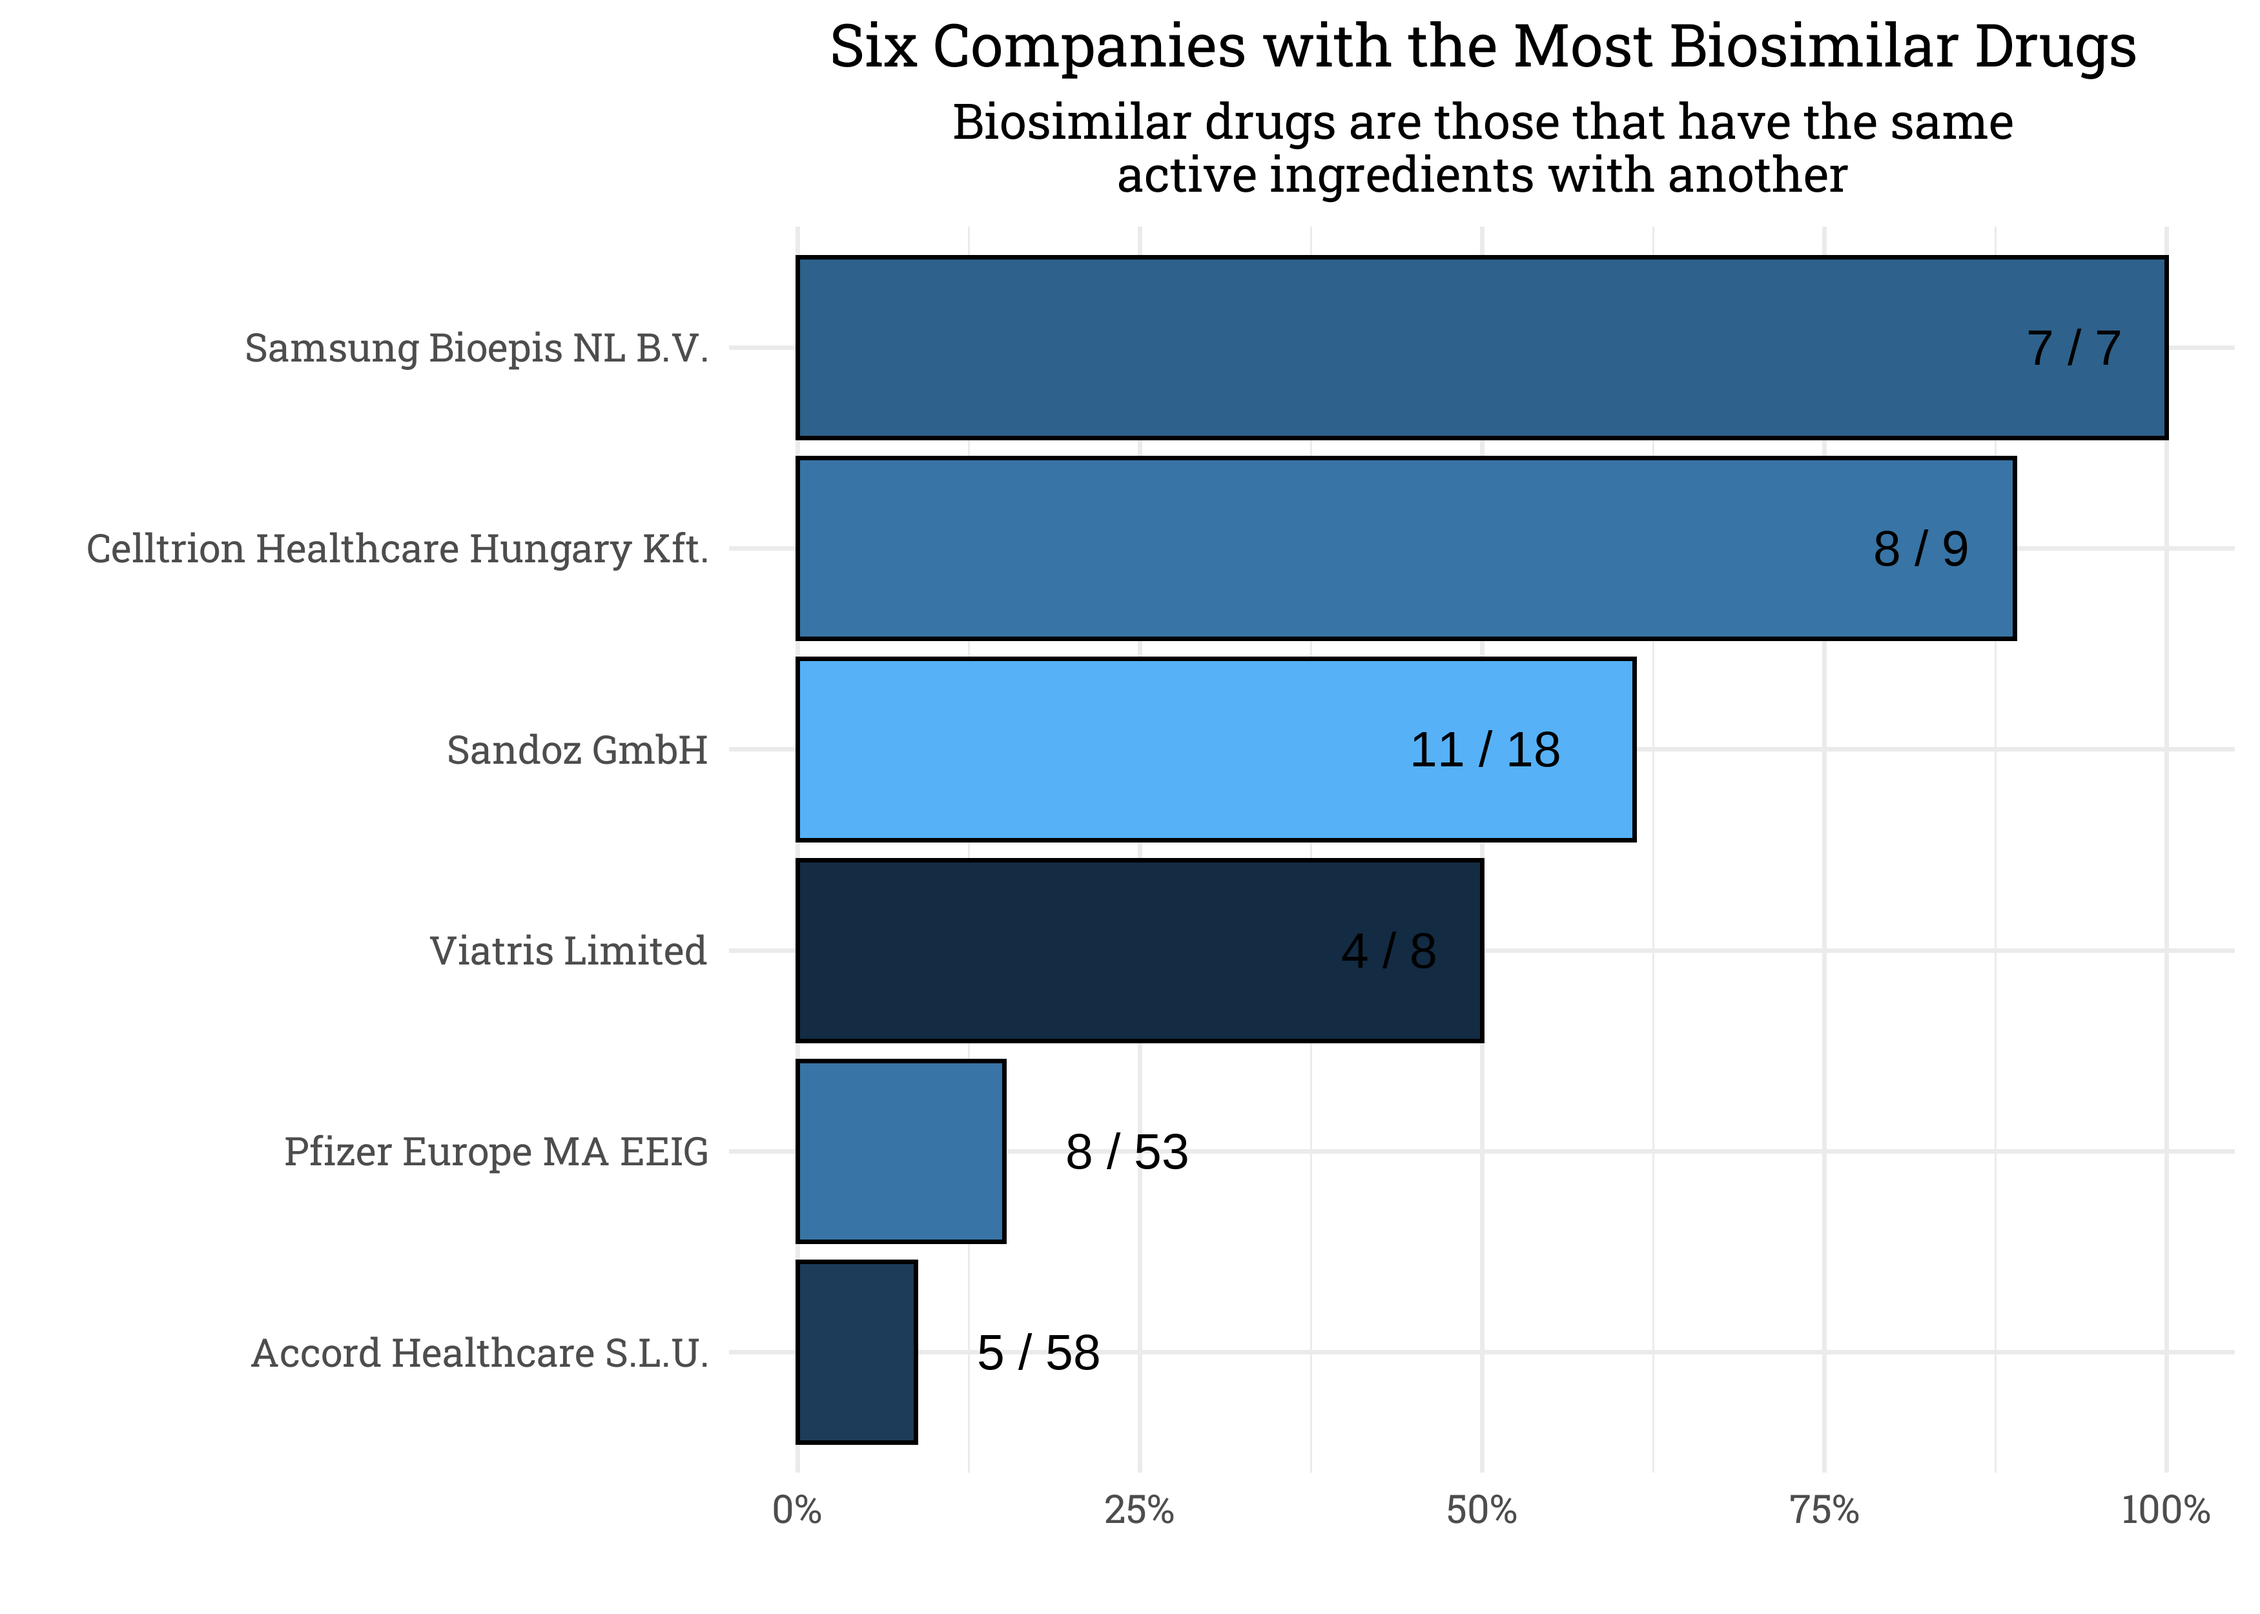
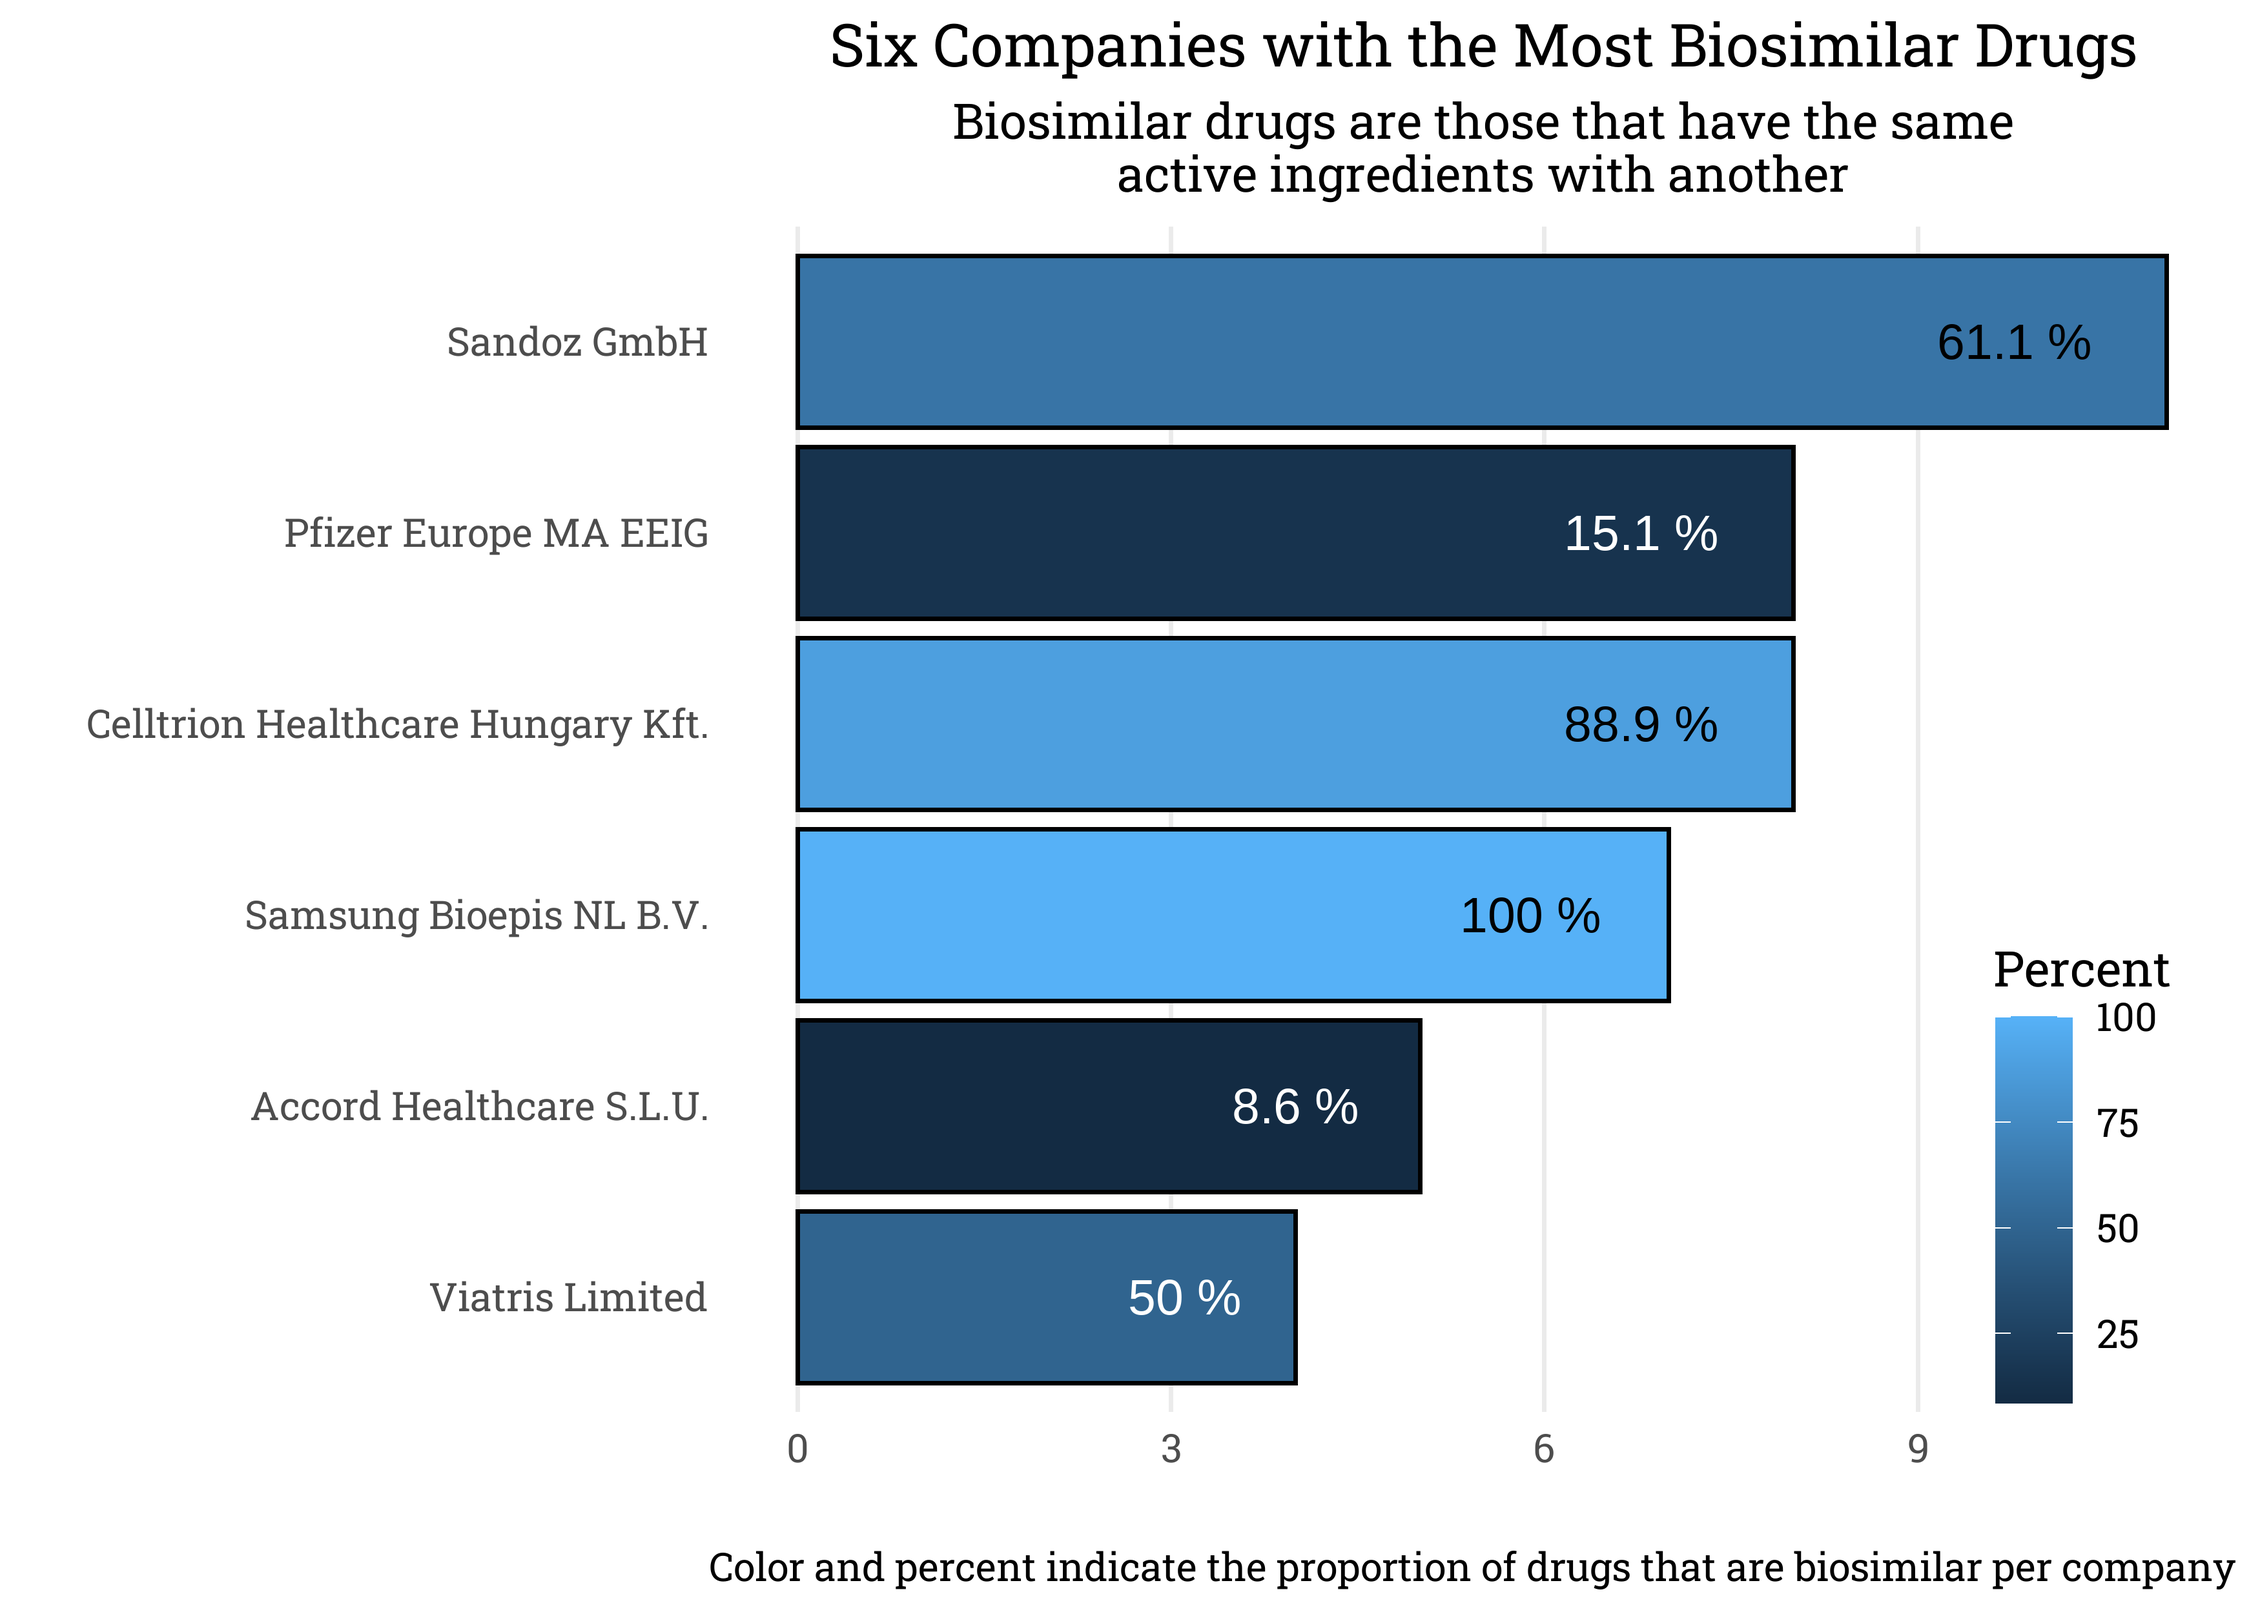
biosimilar plot update

diff --git a/2023/03-14-23/Drugs.md b/2023/03-14-23/Drugs.md
@@ -415,19 +415,23 @@ drugs %>%
   )) %>% 
   group_by(name = marketing_authorisation_holder_company_name) %>% 
   summarize(n = sum(biosimilar),
-            prop = mean(biosimilar)) %>% 
+            prop = round(mean(biosimilar)*100,1)) %>% 
   arrange(-n) %>% 
   slice_max(n, n = 6) %>%
-  ggplot(aes(prop, fct_reorder(name, prop), fill = n)) +
+  ggplot(aes(n, fct_reorder(name, n), fill = prop)) +
   geom_col(color = "black") +
-  geom_text(aes(label = paste(n, "/", n/prop), hjust = ifelse(prop > 0.25,
-                                                              1.5,
-                                                              -.5))) +
-  scale_x_continuous(labels = percent_format()) +
-  labs(y = "", x = "",
+  geom_text(aes(label = paste(prop, "%"), color = ifelse(prop > 50, 
+                                             "black", "white")), 
+            hjust = 1.5) +
+  scale_color_manual(values = c("black", "white")) +
+  labs(y = "", x = "", fill = "Percent",
        title = "Six Companies with the Most Biosimilar Drugs",
-       subtitle = "Biosimilar drugs are those that have the same\nactive ingredients with another") +
-  theme(legend.position = "none")
+       subtitle = "Biosimilar drugs are those that have the same\nactive ingredients with another",
+       caption = "Color and percent indicate the proportion of drugs that are biosimilar per company") +
+  theme(legend.position = c(0.9,0.2),
+        panel.grid.minor = element_blank(),
+        panel.grid.major.y = element_blank())  +
+  guides(color = "none")
 ```
 
 ![](Drugs_files/figure-gfm/unnamed-chunk-18-1.png)<!-- -->
